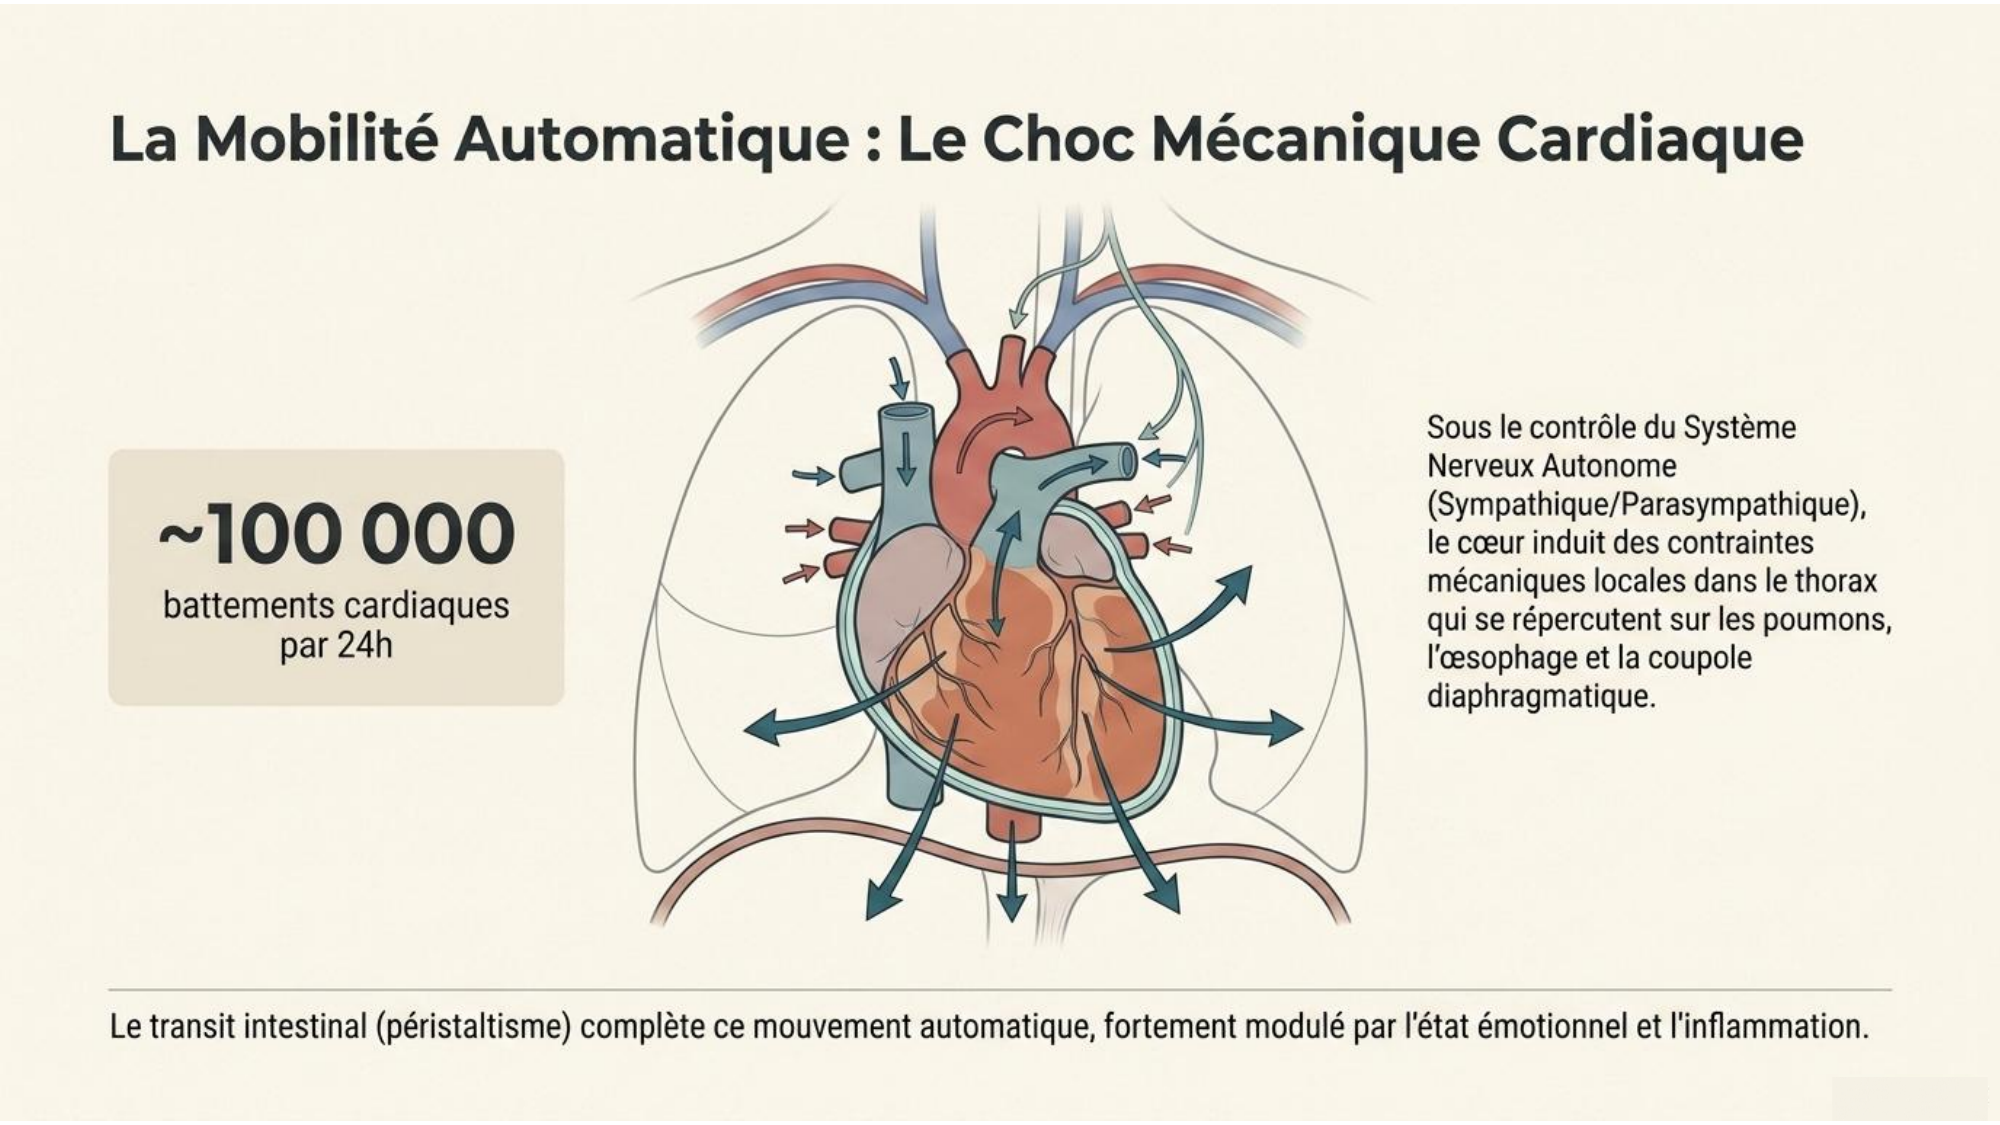
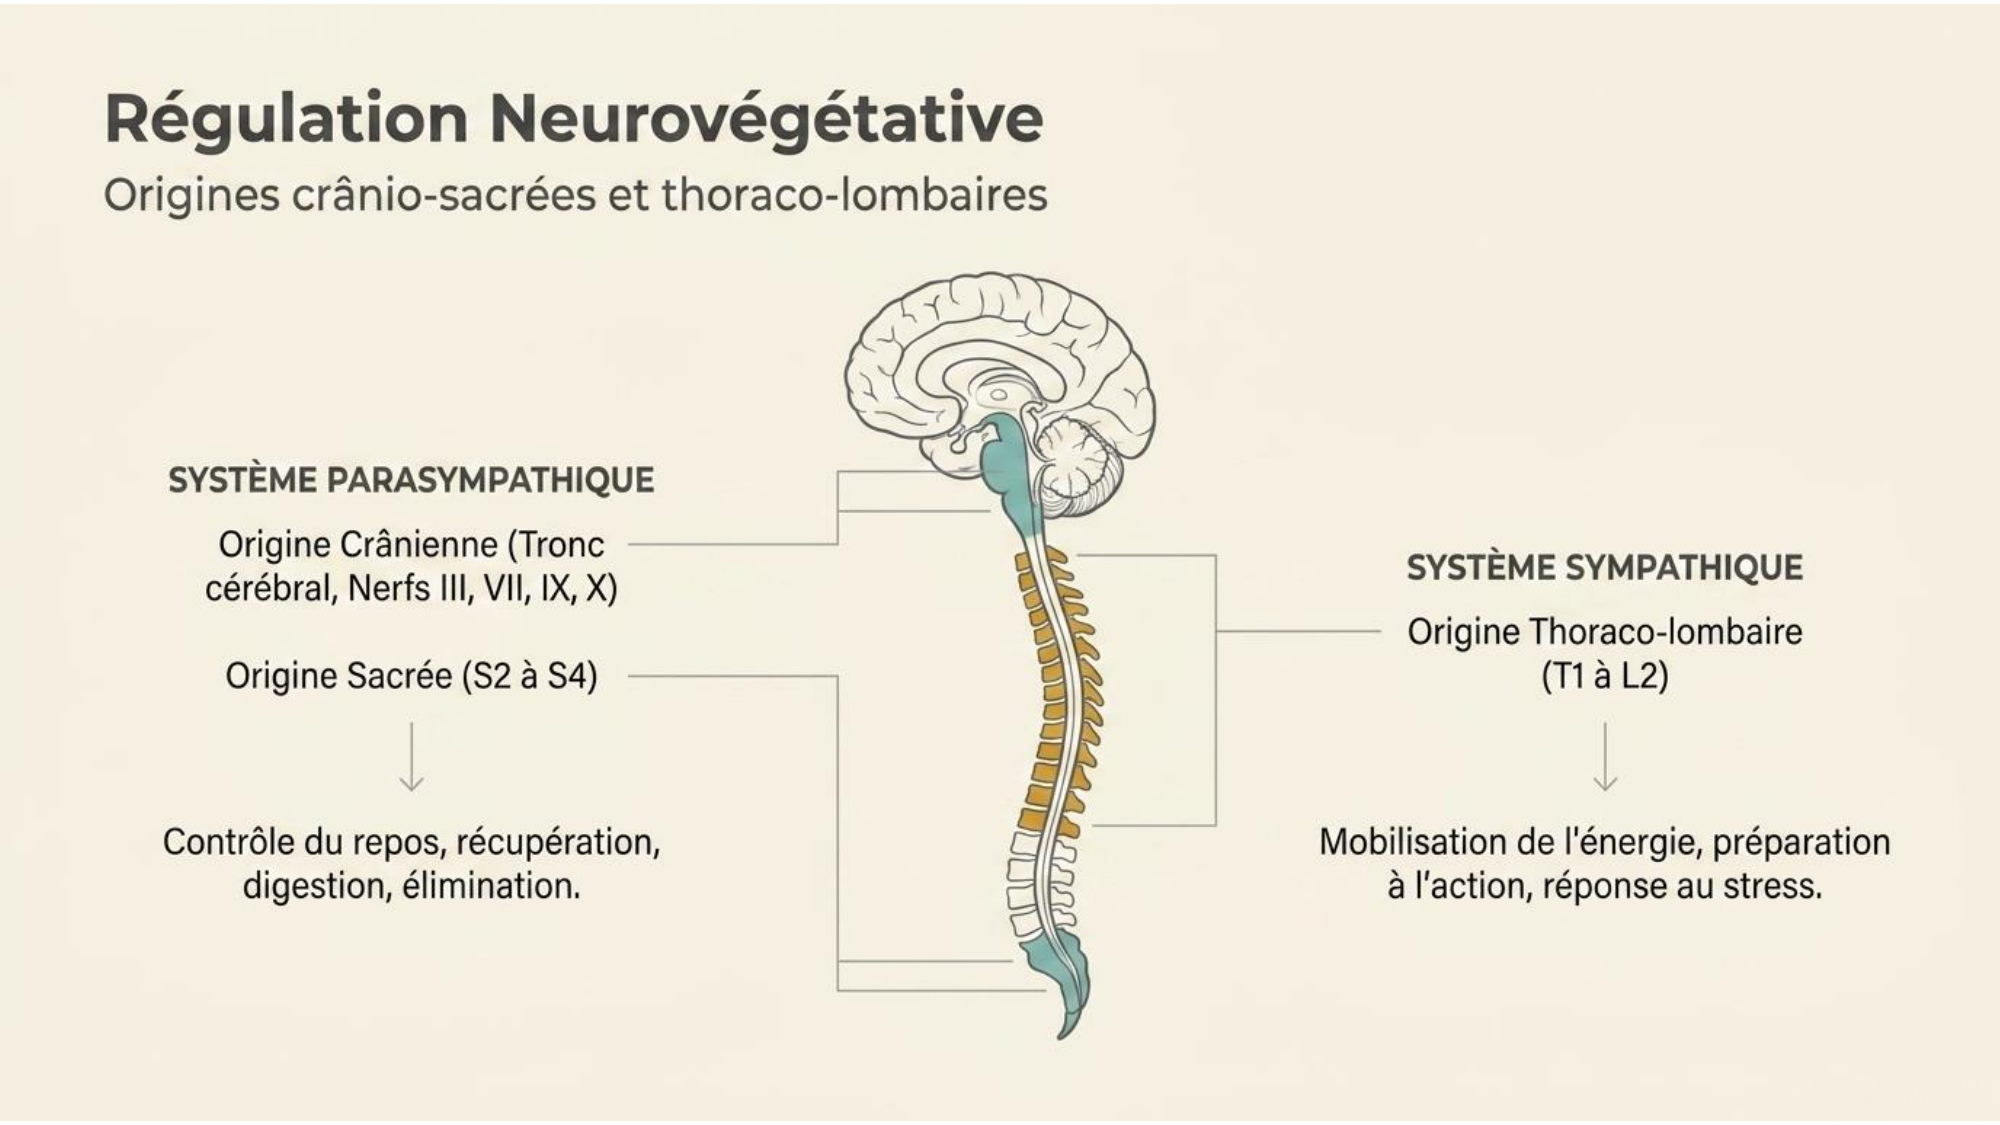
Adjust chapter 1 slide spacing and order

Changed region(s): [[0.031, 0.0622, 0.961, 0.9333], [0.682, 0.3733, 0.961, 0.6533], [0.651, 0.5289, 0.682, 0.6222]]

diff --git a/content/chapter1.slidesync.ts b/content/chapter1.slidesync.ts
@@ -6,8 +6,8 @@ export const chapter1Slides: SyncSlide[] = [
   { src: '/chapter-1/slides/slide-02.png', title: 'Mobilité et motilité' },
   { src: '/chapter-1/slides/slide-03.png', title: 'Les quatre moteurs de la mobilité viscérale' },
   { src: '/chapter-1/slides/slide-04.png', title: 'Le diaphragme : moteur somatique principal' },
-  { src: '/chapter-1/slides/slide-05.png', title: 'La mobilité automatique : le choc mécanique cardiaque' },
-  { src: '/chapter-1/slides/slide-06.png', title: 'Régulation neurovégétative' },
+  { src: '/chapter-1/slides/slide-05.png', title: 'Régulation neurovégétative' },
+  { src: '/chapter-1/slides/slide-06.png', title: 'La mobilité automatique : le choc mécanique cardiaque' },
   { src: '/chapter-1/slides/slide-07.png', title: 'La motilité et le mécanisme respiratoire primaire' },
   { src: '/chapter-1/slides/slide-08.png', title: 'Les articulations viscérales' },
   { src: '/chapter-1/slides/slide-09.png', title: 'Interstitium, sereuses et pressions' },
@@ -21,7 +21,7 @@ export const chapter1Slides: SyncSlide[] = [
 export const chapter1SlideAnchors: SyncAnchor[] = [
   { sectionId: 'intention', blockIndex: 0, slide: 1 },
   { sectionId: 'mobilite-viscerale', blockIndex: 1, slide: 2 },
-  { sectionId: 'mobilite-viscerale', blockIndex: 2, slide: 3 },
+  { sectionId: 'mobilite-viscerale', blockIndex: 2, slide: 3, gapBefore: 'half' },
   { sectionId: 'mobilite-viscerale', blockIndex: 7, slide: 4 },
   { sectionId: 'mobilite-viscerale', blockIndex: 12, slide: 5 },
   { sectionId: 'mobilite-viscerale', blockIndex: 13, slide: 6 },